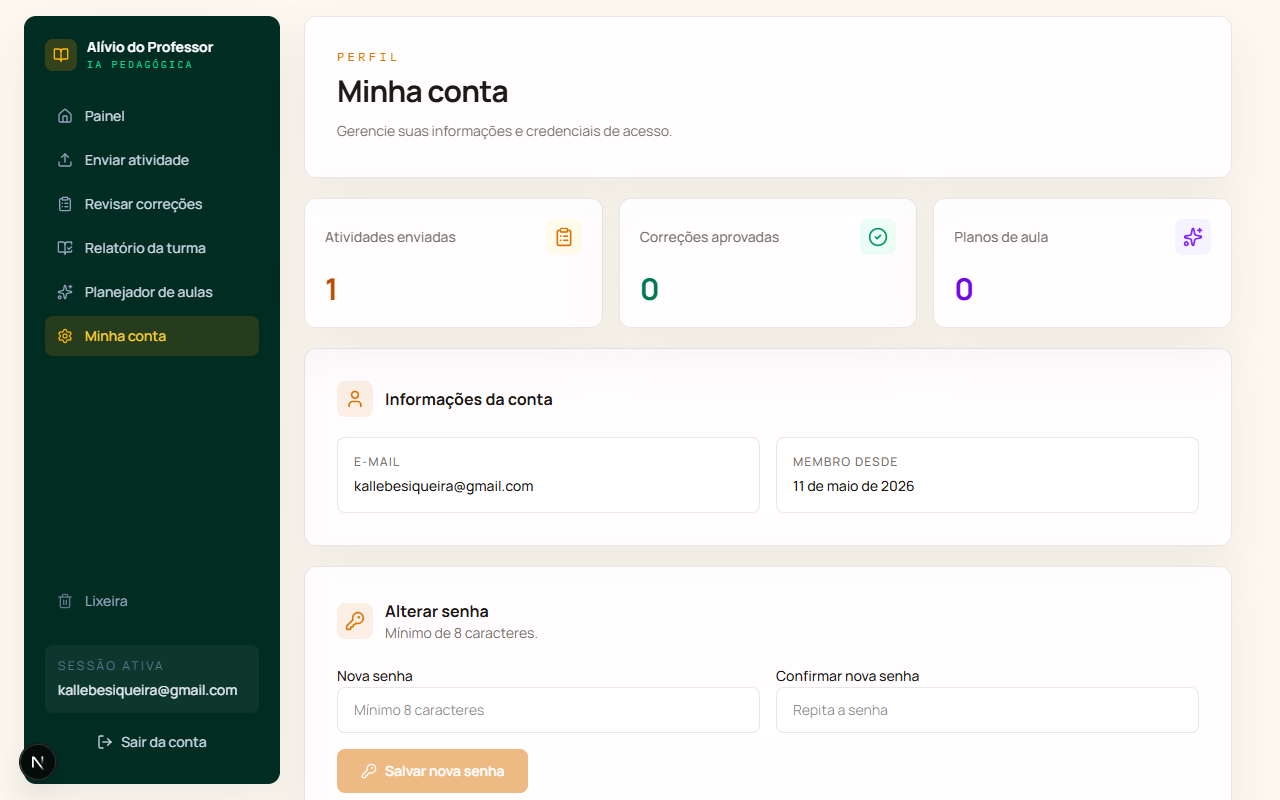
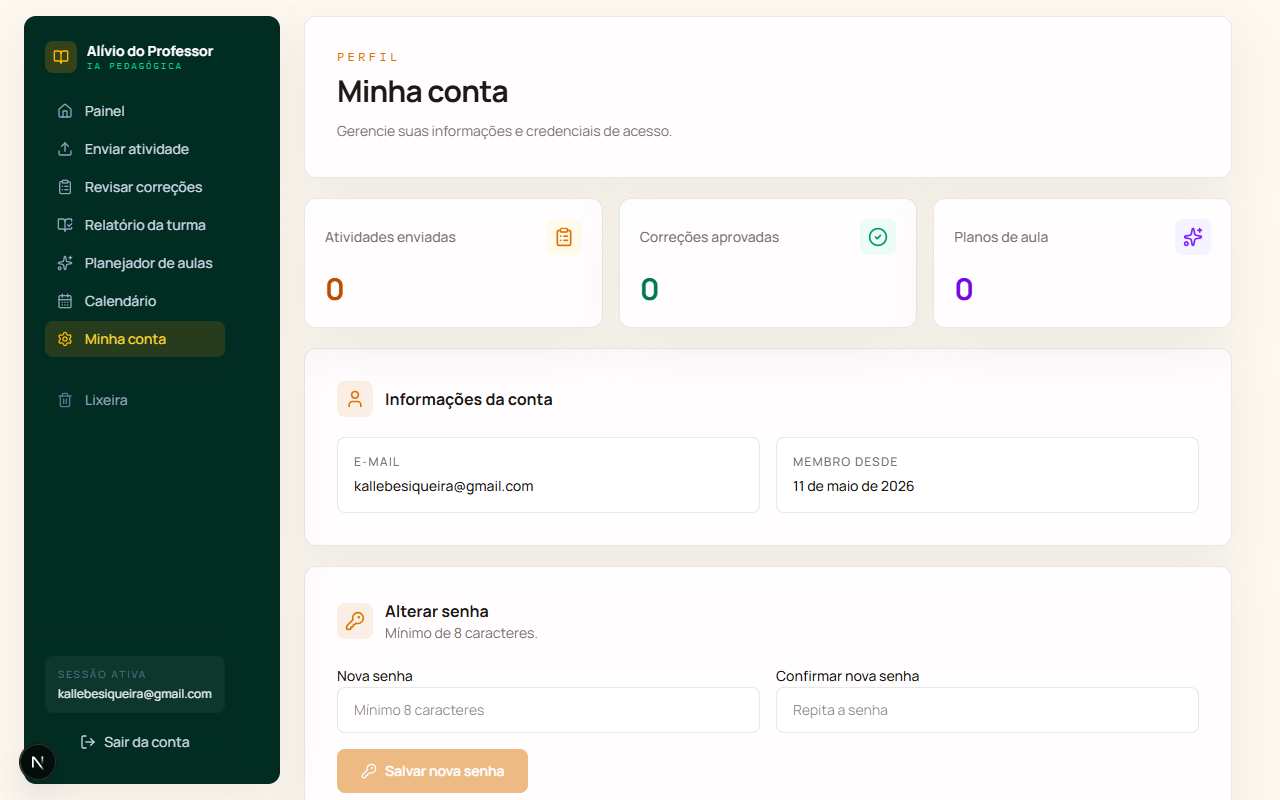
docs: add calendar to README, screenshots and script
Add calendar feature to README (funcionalidades, screenshots table,
project structure). Update screenshots.mjs to capture /calendar.
Regenerate all 9 screenshots including the new calendar page.

diff --git a/README.md b/README.md
@@ -9,6 +9,7 @@ Plataforma SaaS para professores brasileiros do ensino fundamental e médio que 
 - Revisão manual obrigatória antes de qualquer aprovação
 - Planejador de aulas com objetivos, atividades e avaliação gerados por IA
 - Relatório consolidado da turma com alunos em dificuldade e erros frequentes
+- Calendário escolar com aulas, provas, férias, recuperação, reuniões e mais
 - Lixeira com soft-delete, restauração e exclusão permanente
 
 ## Screenshots
@@ -29,9 +30,9 @@ Plataforma SaaS para professores brasileiros do ensino fundamental e médio que 
 |---------------------|---------|
 | ![Planejador](docs/screenshots/planner.png) | ![Lixeira](docs/screenshots/trash.png) |
 
-| Minha conta |
-|-------------|
-| ![Conta](docs/screenshots/account.png) |
+| Minha conta | Calendário escolar |
+|-------------|-------------------|
+| ![Conta](docs/screenshots/account.png) | ![Calendário](docs/screenshots/calendar.png) |
 
 ## Stack
 
@@ -91,7 +92,8 @@ app/
   reports/        # Relatório consolidado da turma
   planner/        # Planejador de aulas com IA
   trash/          # Lixeira com restauração e exclusão permanente
-  api/            # Route Handlers (assignments, corrections, planner, reports, trash)
+  calendar/       # Calendário escolar
+  api/            # Route Handlers (assignments, corrections, planner, reports, trash, calendar)
 
 components/       # Componentes de UI reutilizáveis
 lib/
